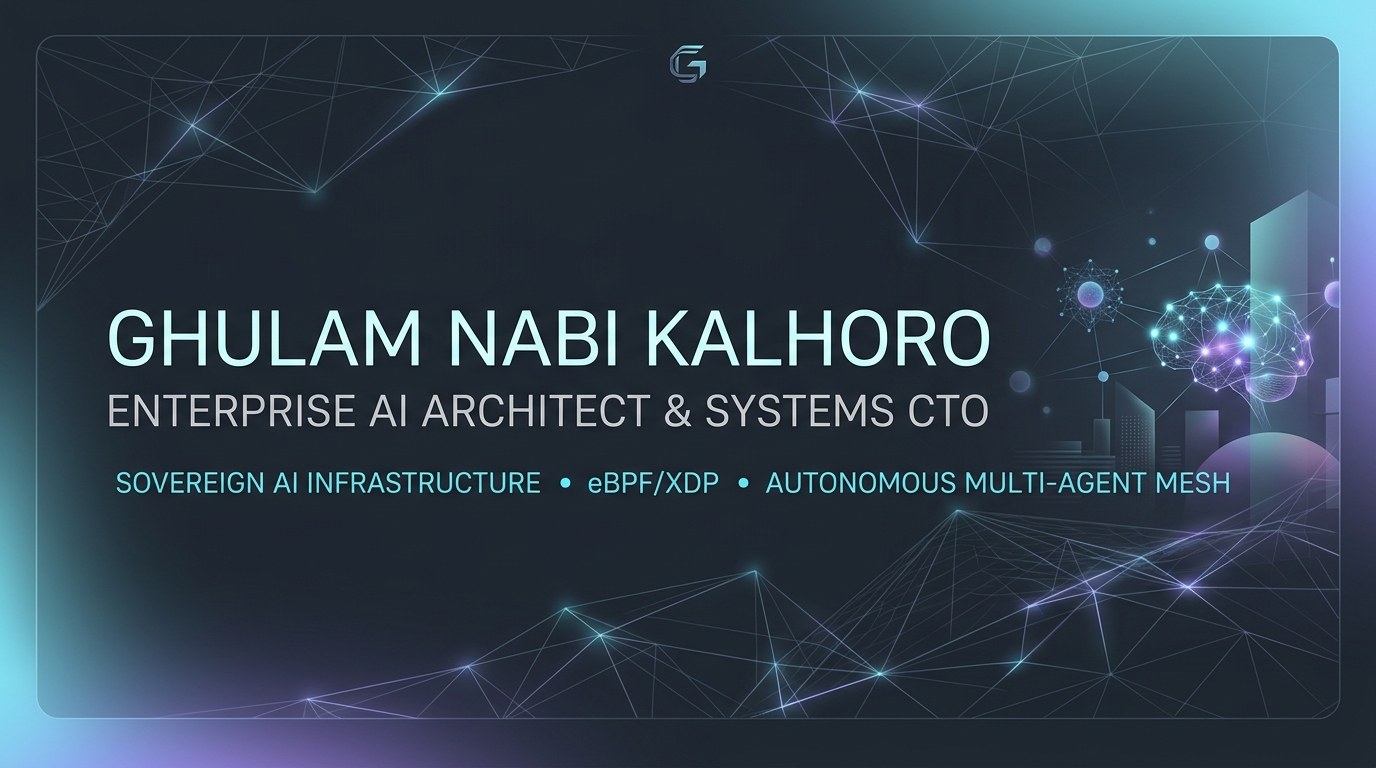
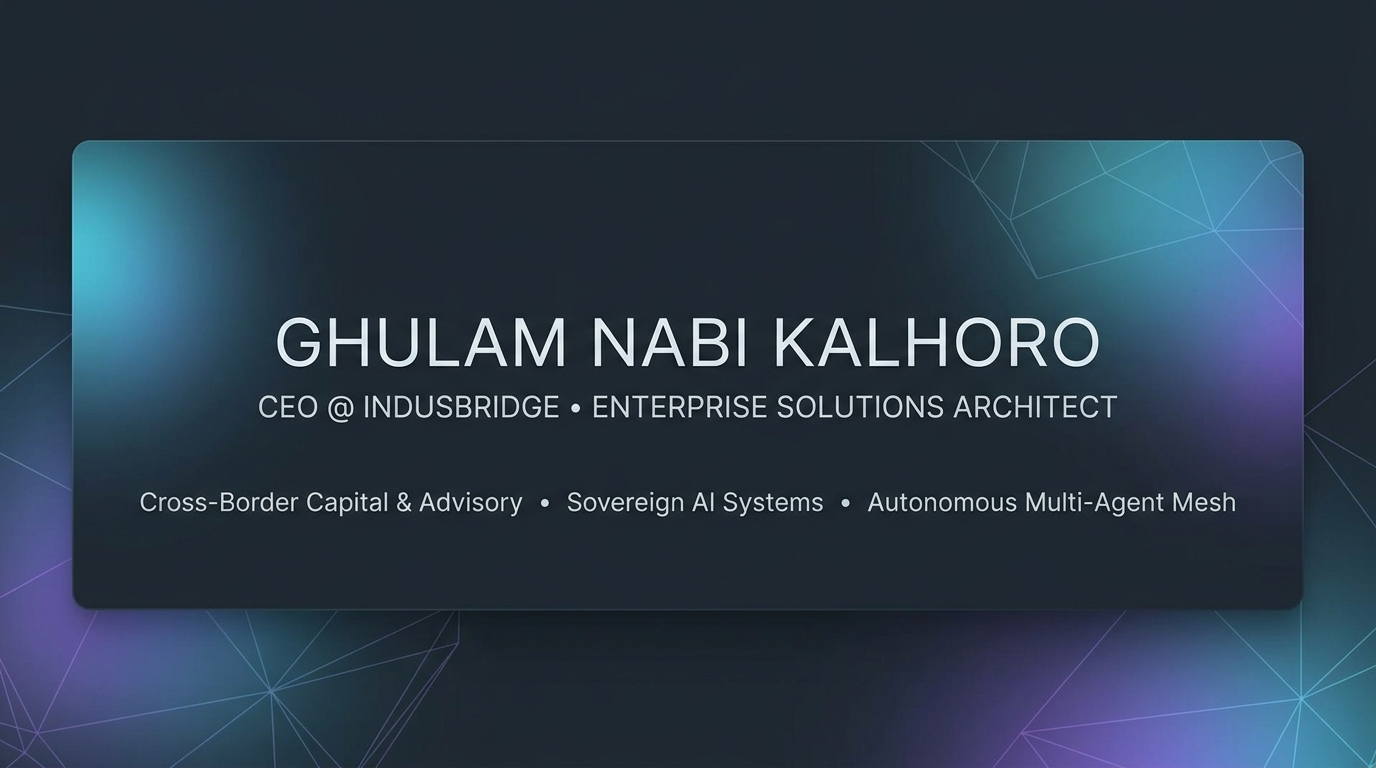
feat(profile): update executive position to CEO @ IndusBridge and incorporate company portfolio

diff --git a/README.md b/README.md
@@ -1,57 +1,62 @@
 <div align="center">
 
-<img src="assets/profile_hero.jpg" alt="Ghulam Nabi Kalhoro - Enterprise AI Architect & Systems CTO" width="100%" style="border-radius: 10px; max-width: 950px;"/>
+<img src="assets/profile_hero.jpg" alt="Ghulam Nabi Kalhoro - CEO @ IndusBridge • Enterprise Solutions Architect" width="100%" style="border-radius: 12px; max-width: 950px;"/>
 
 <br/><br/>
 
+[![CEO @ IndusBridge](https://img.shields.io/badge/CEO-IndusBridge-0077B5?style=for-the-badge&logo=shield&logoColor=white)](https://linkedin.com/in/gnkalhoro)
 [![LinkedIn](https://img.shields.io/badge/LinkedIn-Connect-0A66C2?style=for-the-badge&logo=linkedin&logoColor=white)](https://linkedin.com/in/gnkalhoro)
-[![GitHub](https://img.shields.io/badge/GitHub-Follow-181717?style=for-the-badge&logo=github&logoColor=white)](https://github.com/gnonymous1)
 [![Email](https://img.shields.io/badge/Email-Get_in_Touch-EA4335?style=for-the-badge&logo=gmail&logoColor=white)](mailto:mr.gnkalhoro@gmail.com)
 [![Google Certified](https://img.shields.io/badge/Google_PM-Verified-34A853?style=for-the-badge&logo=google&logoColor=white)](https://skills.google/public_profiles/e8177aca-655c-4a35-bab7-2fa2678bb698)
-[![Location](https://img.shields.io/badge/Location-Pakistan-0F9D58?style=for-the-badge&logo=google-maps&logoColor=white)](#)
+[![Location](https://img.shields.io/badge/Location-Pakistan_•_Dubai-0F9D58?style=for-the-badge&logo=google-maps&logoColor=white)](#)
 
 <br/>
 
 [![Profile Views](https://komarev.com/ghpvc/?username=gnonymous1&style=flat-square&color=0284c7&label=PROFILE+VIEWS)](https://github.com/gnonymous1)
-[![Public Repos](https://img.shields.io/badge/Public_Repositories-11_Active-0d9488?style=flat-square)](https://github.com/gnonymous1?tab=repositories)
-[![Architecture Focus](https://img.shields.io/badge/Architecture-Sovereign_AI_%26_eBPF-6366f1?style=flat-square)](#)
+[![Public Repositories](https://img.shields.io/badge/Public_Repositories-11_Active-0d9488?style=flat-square)](https://github.com/gnonymous1?tab=repositories)
+[![Firm](https://img.shields.io/badge/Firm-IndusBridge_Capitals_%26_Systems-6366f1?style=flat-square)](https://linkedin.com/in/gnkalhoro)
+[![Architecture](https://img.shields.io/badge/Architecture-Sovereign_AI_Systems-8b5cf6?style=flat-square)](#)
 
 </div>
 
 ---
 
-## 🏛 Executive Summary
+## 🏛 Executive Dossier
 
 > **"Build controls that actually enforce, not policies that merely document."**
 
-I am an **Enterprise Solutions Architect & CTO** specializing in sovereign, high-concurrency systems at the intersection of **Autonomous Multi-Agent AI**, **Low-Level Linux Kernel Security (eBPF/XDP)**, and **National B2G Infrastructure**.
+I am the **Chief Executive Officer (CEO) at IndusBridge** and an **Enterprise Solutions Architect** designing high-concurrency cross-border investment platforms and sovereign technical architectures.
 
-### 🎯 Key Engineering Competencies
-- **Universal AI Gateways:** Intelligent model routing, real-time token failover across 189+ LLM providers with sub-millisecond switching (`AIPI`).
-- **Kernel-Level AI Guardrails:** Deep packet inspection and prompt-injection firewalls directly in the Linux network path via eBPF & XDP bypass routing (`sovereign-root-protocol`).
-- **Autonomous Agentic Mesh:** Stateful multi-agent DAGs, cognitive wireless penetration agents, and automated vulnerability inspection engines (`project-valkyrie`, `pentestgpt-web`).
-- **Enterprise & B2G Systems:** Mission-critical microservices, immutable SHA-256 audit trails, and ERP integrations handling massive concurrent operational throughput.
+My executive and engineering mandate unifies:
+* 🌐 **Cross-Border Advisory & Systems ([IndusBridge](https://linkedin.com/in/gnkalhoro)):** Bridging Pakistan, MENA (Dubai Desk: GulfCapital Systems), and Europe across priority economic corridors: **IT & AI · Real Estate · Mines & Minerals · Power & Energy**. Internal AI engines for deal origination, compliance audits, and SIFC strategic alignment.
+* 🧠 **Universal AI Protocol Gateways:** High-throughput model routing, smart token preservation, and zero-downtime failover across 189+ LLM providers (`AIPI`).
+* 🛡 **Kernel-Level Infrastructure Defense:** Real-time packet enforcement and prompt-injection firewalls directly in Linux network paths using eBPF & XDP bypass hooks (`sovereign-root-protocol`).
+* ⚡ **Autonomous Multi-Agent Systems:** Cognitive wireless security agents, automated vulnerability inspection pipelines, and distributed swarm telemetry (`project-valkyrie`, `pentestgpt-web`).
 
 ---
 
-## 🌐 Sovereign AI & Multi-Agent Architecture
+## 🌐 Sovereign AI & Enterprise Ecosystem
 
 <div align="center">
 
-<img src="assets/ecosystem_map.jpg" alt="Sovereign AI & Multi-Agent Mesh Ecosystem" width="100%" style="border-radius: 10px; max-width: 950px;"/>
+<img src="assets/ecosystem_map.jpg" alt="Sovereign AI & Enterprise Ecosystem" width="100%" style="border-radius: 10px; max-width: 950px;"/>
 
 </div>
 
-The diagram above outlines the core topology of my sovereign AI ecosystem, linking universal API routing, kernel-level enforcement, edge wireless monitoring, and cognitive agent meshes into a unified, secure fabric.
+The architecture connects core operational layers:
+1. **Advisory & Deal Sourcing Layer:** IndusBridge Cross-Border Investment Platform & Analytics.
+2. **Gateway Layer:** Universal AI Protocol Interface (`AIPI`) routing 189+ model providers.
+3. **Security & Kernel Layer:** eBPF/XDP network-level filters & prompt injection shielding (`sovereign-root-protocol`).
+4. **Cognitive Agent Layer:** Distributed multi-agent swarms, cognitive wireless defense (`project-valkyrie`), and automated penetration engines (`pentestgpt-web`).
 
 ---
 
-## 🚀 Featured Open Source Repositories
+## 🚀 Public Projects Portfolio
 
 ### 1. 🌐 [AIPI — Universal AI Protocol Interface & Token Gateway](https://github.com/gnonymous1/AIPI)
 > **Multi-Model Manager & Smart Token Failover Gateway supporting 189 API providers and 50+ vibe coding agents.**
 * **Stack:** Python 3.11+, FastAPI, Antigravity, Multi-LLM Mesh, Async Telemetry
-* **Highlights:** Zero-downtime dynamic routing, automatic rate-limit failover, multi-provider token preservation, and plug-and-play support for Claude, Cursor, Gemini CLI, Windsurf, Cline, Roo Code, and more.
+* **Highlights:** Zero-downtime dynamic routing, automatic rate-limit failover, multi-provider token preservation, and native support for Claude, Cursor, Gemini CLI, Windsurf, Cline, Roo Code, and more.
 * [![Stars](https://img.shields.io/github/stars/gnonymous1/AIPI?style=social)](https://github.com/gnonymous1/AIPI) [![Fork](https://img.shields.io/github/forks/gnonymous1/AIPI?style=social)](https://github.com/gnonymous1/AIPI)
 
 ---
@@ -127,10 +132,11 @@ The diagram above outlines the core topology of my sovereign AI ecosystem, linki
 
 ---
 
-## 📊 Complete Project Matrix
+## 📊 Complete Project & Venture Matrix
 
-| Project | Category | Key Tech Stack | Access |
+| Project / Venture | Category | Key Tech Stack & Focus | Access |
 |:---|:---|:---|:---:|
+| **[IndusBridge](https://linkedin.com/in/gnkalhoro)** | Cross-Border Capital & Tech Advisory | Real Estate · IT/AI · Mines & Minerals · Power | `VENTURE` |
 | **[AIPI](https://github.com/gnonymous1/AIPI)** | Universal AI Routing & Failover | Python, FastAPI, Antigravity, 189 Providers | `PUBLIC` |
 | **[sovereign-root-protocol](https://github.com/gnonymous1/sovereign-root-protocol)** | eBPF/XDP AI Kernel Security | C (Kernel), Python, HAProxy, mTLS | `PUBLIC` |
 | **[project-valkyrie](https://github.com/gnonymous1/project-valkyrie)** | AI Wireless Security Agent | Gemini AI, Python, Kali, PMKID | `PUBLIC` |
@@ -148,12 +154,12 @@ The diagram above outlines the core topology of my sovereign AI ecosystem, linki
 
 | Domain | Technologies & Frameworks |
 |:---|:---|
-| **Low-Level & Kernel** | C, C++, Linux Kernel, eBPF, XDP, Assembly (x86/ARM), WireGuard, mTLS |
+| **Executive Leadership & Strategy** | Chief Executive Officer (CEO), Cross-Border Deal Origination, B2G Alignment, Governance |
+| **Low-Level & Kernel Engineering** | C, C++, Linux Kernel, eBPF, XDP, Assembly (x86/ARM), WireGuard, mTLS |
 | **AI & Agentic Systems** | Multi-Agent Swarms, LangGraph, CrewAI, Gemini Multimodal, PyTorch, pgvector |
-| **Backend & Cloud** | Python (FastAPI), Go, TypeScript, PostgreSQL, Redis, Docker, GCP, Azure |
+| **Backend & Cloud Infrastructure** | Python (FastAPI), Go, TypeScript, PostgreSQL, Redis, Docker, GCP, Azure |
 | **Offensive & Defensive Security** | Zero-Trust Architecture, Kali Linux, Reverse Engineering, AST Command Guards, AST Shields |
-| **Enterprise & B2G** | Oracle NetSuite, B2G Portals, High-Volume Ledgers, Scalable Distributed Queues |
-| **Leadership & Methodology** | Google Certified Project Management, Scrum, SAFe Agile, Tech Incubation (1,500+ ventures) |
+| **Project & Advisory Standards** | Google Certified Project Management, Scrum, SAFe Agile, Tech Incubation (1,500+ ventures) |
 
 ---
 
@@ -174,7 +180,7 @@ The diagram above outlines the core topology of my sovereign AI ecosystem, linki
 
 ```
 [COMMUNICATION_LINK: OPEN]
-> Ready to collaborate on sovereign AI infrastructure, autonomous agent development, and enterprise systems.
+> Open for strategic cross-border advisory, sovereign AI infrastructure partnerships, and executive collaborations.
 ```
 
 <div align="center">
